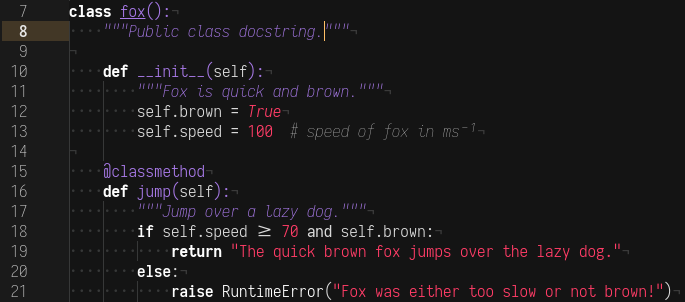
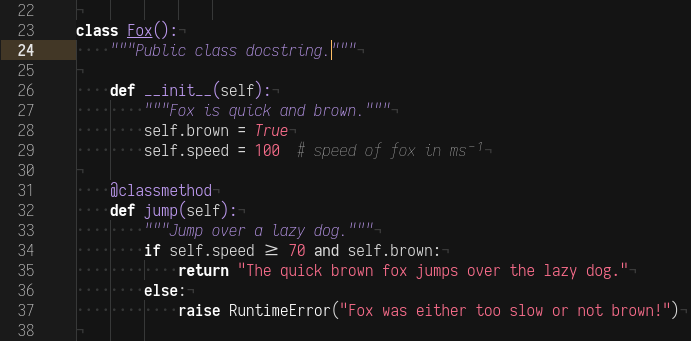
Update screenshot and change wording to avoid awkwardness when Atom doesn't show the image.

diff --git a/README.md b/README.md
@@ -2,11 +2,8 @@
 
 This is a modification of Atom's dark syntax theme, primarily focusing on reducing the amount of colors used and making use of more font styles and weights. It currently is designed with only Python in mind, however. I'd love some help with other languages, but until then this theme will mostly be focusing on Python and perhaps adding considerations for Bash and HTML/CSS/JS.
 
+![first screenshot](images/fox.png "That public class docstring is pretty awful.")
+
 You will want to use a font supporting multiple weights and true italics. I recommend Pragmata Pro, but any font meeting those requirements will work.
 
 To modify the main colors (purple and red), just change `@syntax-color-value` and `@syntax-color-function` in the `syntax-variables.less` file. There are also lines in there with alternate colors that you should uncomment if you're protanomalic or tritanomalic.
-
-
-Here's some example code, with Iosevka as the typeface:
-
-![first screenshot](images/fox.png "That public class docstring is pretty awful.")
